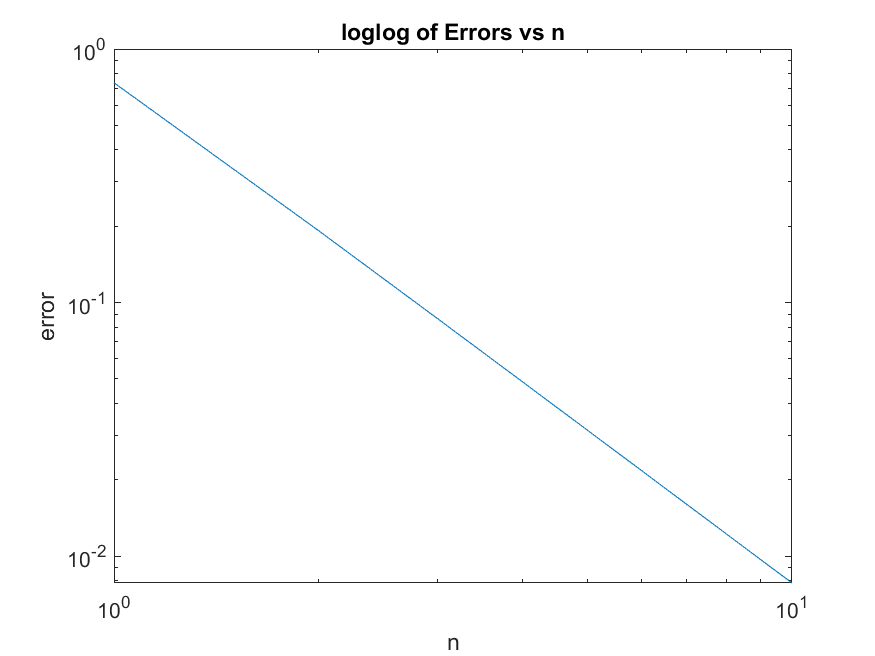
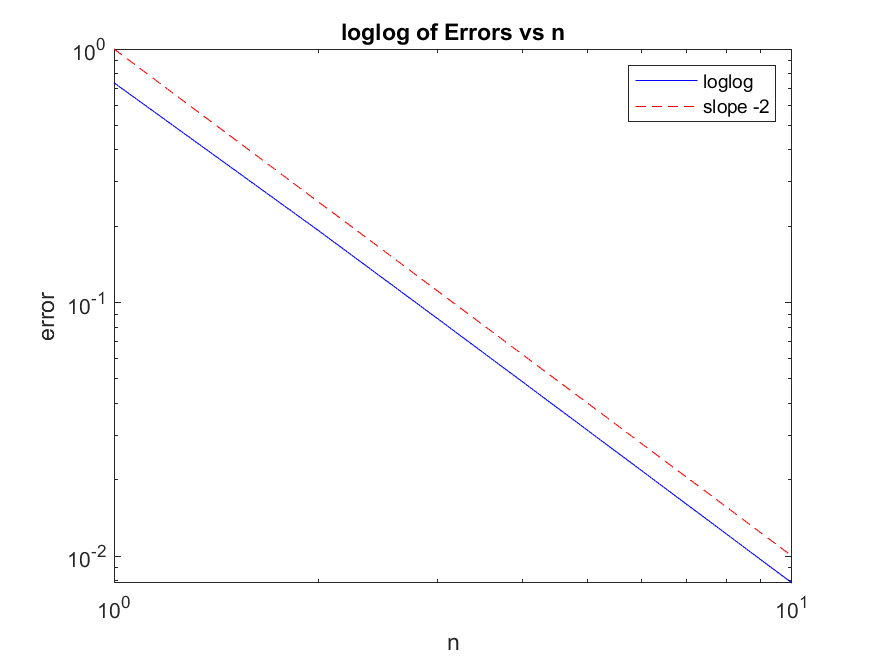
fixed 1b to include line with -2 slope

Changed region(s): [[0.8023, 0.0915, 0.8949, 0.1829]]

diff --git a/HW4/loglog1b.m b/HW4/loglog1b.m
@@ -10,8 +10,14 @@ for i=1:10
     err = abs(app - exactval);
     errs = [errs err];
 end
-loglog(n, errs)
+sl = @(x) x.^(-2);
+ys = sl(n);
+loglog(n, errs, 'b')
+hold on
+loglog(n, ys, 'r--')
+hold off
 title('loglog of Errors vs n')
 xlabel('n')
 ylabel('error')
+legend('loglog', 'slope -2')
 saveas(gcf, '1b.png')

diff --git a/HW3/polyfit.m b/HW3/polyfit.m
@@ -20,4 +20,4 @@ hold off
 xlabel('x')
 ylabel('y')
 title('Fitted least squares solution')
-saveas(gcf, 'polyfit.png')
+%saveas(gcf, 'polyfit.png')
